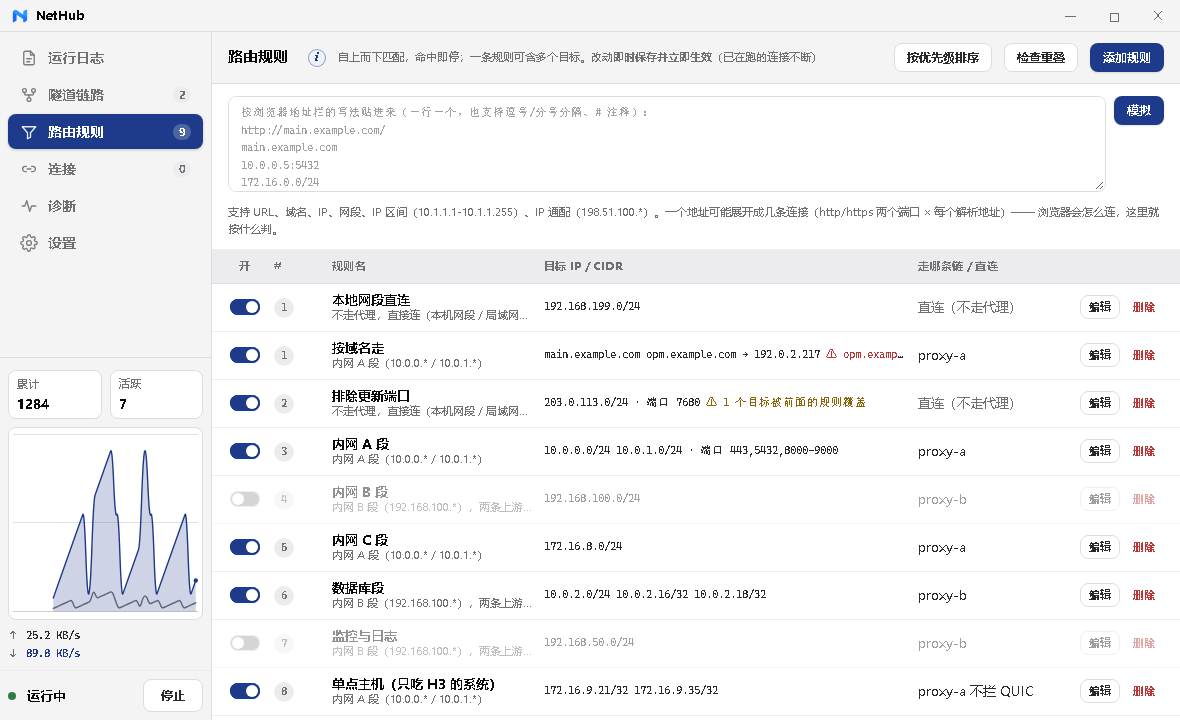
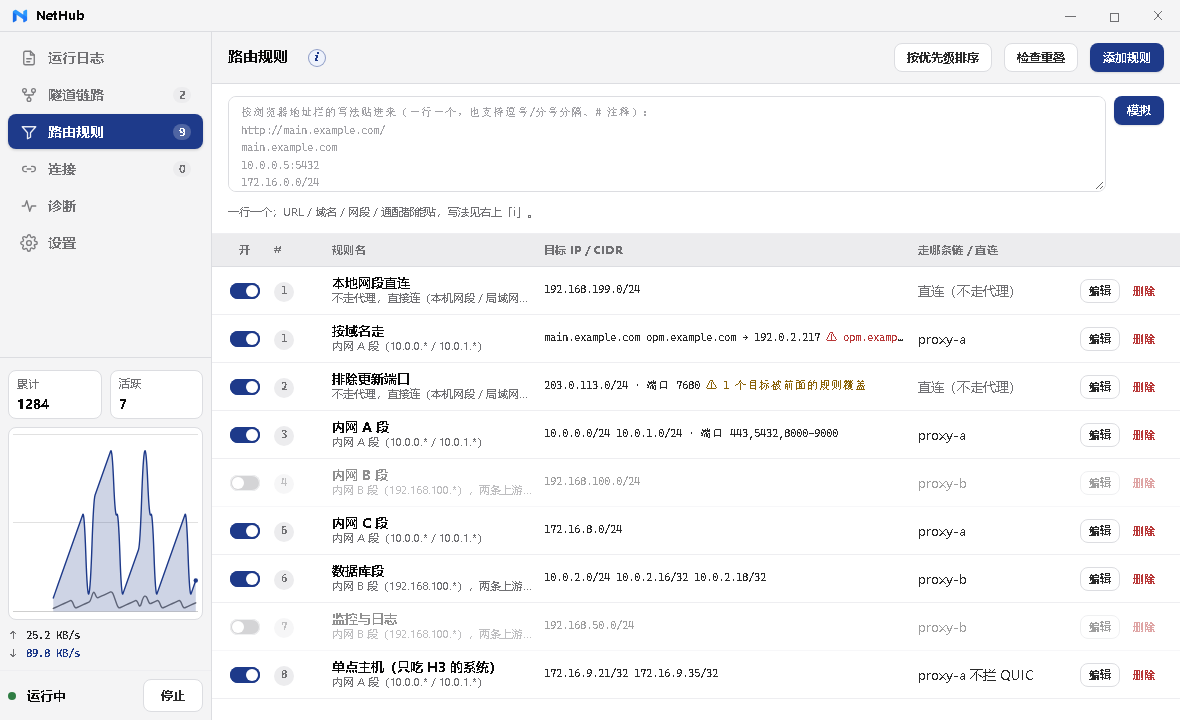
界面文案：删掉与「i」重复的小字，HELP 内容减半
用户要求：清理没用的小字（运行日志横幅、路由规则横幅，以及其它"有 i 又额外写小字"
的地方），并精简 i 里的内容。

删掉的页面小字（信息都在对应 HELP 里，没有丢）：
- 路由规则横幅「自上而下匹配，命中即停；改动即时生效…」→ 进 HELP.rule 第 1 段
- 规则页模拟器「支持 URL、域名、IP 网段…」→ 收成一行「写法见右上 i」
- 连接「当前连接」卡「同目标合并成一行（×N）」、统计卡「累计（本程序启动以来）」
- 诊断「接管状态」卡「内核面 / 域名面…每 5 秒更新」
- 白名单卡「漏了这步…」+ 卡底「两个文件都在程序目录里…见右上 i」
- 共存检测卡「看内网数据会走哪…」+ 修复框里那句「i 里有原因」
- UDP 卡「本版本不转发 UDP…」+ 输出框里三段"结论怎么读"
- 拨号卡「一条上游不响应时…」、headless 卡「把引擎装成 Windows 服务…」+「以 LocalSystem 跑…i 里有细节」
- 日志横幅：改成「同时写入 nethub.log（normal）」—— 只留"写哪儿 + 当前是哪一档"，
  "怎么改/为什么分两档"留在设置页那张卡里

help 内容：10 条共 6500+ 字 → 3350 字（conn 10→7 段、stats 12→7、runtime 13→6、
rule 15→8…），删的是实现细节（合并键、句柄 filter=false、log.db-wal 路径、
"实测环境 Clash Verge v2.5.2"、config.yaml 具体键名）与重复段落；判据保留。

DESIGN.md 补「解释只在 i 里说一次」：页面上只留读数 / 操作 / 当前状态一句话，
判据是"这句删掉用户会不会做错事"。

门禁：help keys=10 paras=56 overlong=0 wired=10/10；loghint 仍含 nethub.log。

diff --git a/frontend/app.js b/frontend/app.js
@@ -2779,158 +2779,124 @@ function updateVerboseToggle(level) {
     : '打开详细日志（verbose）：每条连接为什么这么走、DNS、实际走了哪个上游';
 }
 
-// 日志页那句小字要说清“文件里记的是哪一档”：
-// 用户把屏幕档拨到 normal 后，日志页看不到 route.match 是正常的 —— 不说清楚会以为功能坏了。
+// 日志横幅上只留一句"写哪儿 + 文件里是哪一档"（档位不同步是排障时最常见的困惑）。
+// 怎么改、为什么不影响界面，都在设置页「文件与日志」那张卡里 —— 不在每一页上重说一遍。
 function refreshLogFileHint(s) {
   const el = document.getElementById('logFileHint');
   if (!el) return;
   const eff = s.logLevelFileSet ? (s.logLevelFile || '') : (s.logLevel || 'normal');
-  el.textContent = '同时写到程序目录的 nethub.log（文件档 ' + (eff || 'normal') +
-                   (s.logLevelFileSet ? '' : '，跟随界面') + '；在设置 › 文件与日志 里改）';
+  el.textContent = '同时写入 nethub.log（' + (eff || 'normal') + '）';
 }
 
 // 长说明统一放这里；界面上的小字只留一句概括 + 一个“i”按钮。
+// 写法：一条一个主题、能拿来做判断的留下，实现细节（内部字段名、注册表路径、
+// 具体日志文件位置、当初实测的版本号）一律不写 —— 那些在代码与文档里，
+// 界面上的 i 是用来回答“这一页该怎么看、出问题怎么办”的。
 const HELP = {
   conn: {
     title: '连接列表：口径与操作',
     paras: [
-      '一行 = 一条连接（按本地端口建条目）。同一目标、同一进程、同一链的并行连接会合并成一行并标 ×N —— 浏览器对同一 origin 允许 6 条并发，逐条铺开反而看不出“这是一次页面加载”。合并键：目标 + 动作 + 链 + 进程 + PID。',
-      '点整行展开：列出这一组里每一条连接的本地端口、开始时间、时长、收发字节、包数、状态与命中的规则；错误全文也在这里。',
-      '累计：本进程启动以来接管的连接数（只统计走隧道的，直连与阻断不计）。',
-      '活跃：当前进行中的连接数（含直连与阻断的行，与本列表保持一致）。',
-      '各链累计：每条链接管了多少条（不含直连与阻断）。',
-      '速率：这一行每秒传多少（出+入合计，引擎每秒采样一次；悬停看分方向）。累计字节说的是“一共传了多少”，速率说的是“此刻还在不在传” —— 业务卡住时看的就是它：累计正常、速率为“—”。已结束的连接不显示速率。',
-      '直连的目标需要先打开「直连流量统计」才会出现在这里：默认直连网段不进内核过滤器，一个包都看不到。',
-      '本程序自己的探针连接（链路自检、与其它代理共存检测）不列入：它们是仪器，不是应用流量。',
-      '列表最多显示 5 条，更多的在表内上下滚动；表头固定，滚的时候列名不飘走。',
-      '已结束的连接保留 15 秒。',
+      '一行 = 一条连接。同一目标、同一进程、同一链的并行连接合并成一行并标 ×N（浏览器对同一 origin 就会开 6 条）—— 合成一行才看得出“这是一次页面加载”。',
+      '点整行展开：这一组里每条的本地端口、时长、收发字节、状态与命中的规则；错误全文也在这里。',
+      '累计 = 本程序启动以来接管的连接数（只算走隧道的）。活跃 = 现在还在连的（含直连与阻断）。各链累计 = 每条链接管了多少条。',
+      '速率 = 这一行每秒传多少（出+入）。累计说“一共传了多少”，速率说“此刻还在不在传” —— 业务卡住时看它：累计正常、速率是“—”。已结束的连接不显示速率，保留 15 秒。',
+      '直连的行要先在下面打开「直连流量统计」才看得到：默认直连的包不进内核过滤器，一个都数不到。',
+      '本程序自己的探针（自检、共存检测）不列入 —— 它们是仪器，不是应用流量。',
+      '最多显示 5 条，更多的在表内滚动；表头固定。',
     ],
   },
   stats: {
     title: '「统计」这一块的口径与边界（在「连接」页里）',
     paras: [
-      '这一块回答「这段时间谁在占通道」；上面那张连接列表回答「现在有哪些连接」。两者不重复：列表实时、已结束的一会儿就消失；这一块累计、可清零。',
-      '口径只有一个：累计（本程序启动以来），与「链」页的累计、「连接」页上方的累计、顶栏流量图是同一个起点 —— 引擎「停止/启动」不会把它清零（否则同一件事会有两个数，反而说不清）。要重新起算就点「清零」。',
-      '「时长」是这组数字覆盖了多久（与「自 … 起」同一个起点；点「清零」后会重新算），不是程序/引擎跑了多久 —— 那在「诊断」页。',
-      '连接数 = 已经收尾的 + 还开着的（行内「12·2」= 共 12 条，其中 2 条还在跑）；「活跃」与失败是同一口径，阻断的算失败 —— 应用那边确实没连上。',
-      '流量 = 这条连接实际过的字节（走隧道的分上下行；直连里环回目标也分上下行，其它目标只有出方向）。',
-      '当前速率只看还开着的连接（已结束的自然没有速率）；平均速率 = （发送 + 接收）/ 这一行活跃的时长。',
-      '不算我们自己的探针（自检 / 共存检测那几条）：它们是仪器，不是业务流量 —— 与「连接」页同一个口径。',
-      '直连要看得到，得先在「连接」页打开「也统计直连流量的字节数」：关着时直连的包不进内核过滤器（零开销），根本无从统计。',
-      '目标能认出域名就并到域名那一行（同一个域名用域名 / 假 IP / 真实 IP 连都算一行）；认不出来的按 IP 单列。',
-      '只留最近活跃的 512 个应用 / 目标（超出会挤掉最久没活动的，挤了几个会写在上面）；表里只列前 20 行，点「复制」拿到的是整张表。',
-      '不落盘：程序退出就没了。长期的账看日志里每 5 分钟一行的流量概览。',
-      '点列头可以按这一列换序；默认按流量大的在前。',
+      '这一块答“这段时间谁在占通道”；上面的列表答“现在有哪些连接”。列表实时、结束就消失；这里累计、可清零。',
+      '口径只有一个：累计（本程序启动以来），与连接页上方、链条页的累计、侧栏流量图同一个起点；引擎停止/启动不清零（否则同一件事两个数）。要重新起算点「清零」。',
+      '「时长」是这组数字覆盖了多久，不是程序跑了多久（那个在诊断页）。',
+      '连接数 = 已收尾 + 还在跑（「12·2」= 共 12 条，其中 2 条在跑）。失败里含阻断 —— 应用那边确实没连上。',
+      '流量 = 实际过的字节（走隧道的分上下行；直连只有环回目标分上下行）。当前速率只看还开着的；平均速率 = 收发总量 ÷ 该行活跃时长。',
+      '域名认得出就并到域名那一行（用域名、假 IP、真 IP 连都算一行）；只留最近活跃的 512 个应用/目标，表里只列前 20 行，「复制」拿到的是整张表。',
+      '不落盘：程序退出就没了；长期的账看日志里每 5 分钟一行的流量概览。点列头换序，默认按流量倒序。',
     ],
   },
   runtime: {
-    title: '接管状态：各项指标的含义与判定口径',
+    title: '接管状态：各指标含义与「需要注意」的判定',
     paras: [
-      '三个分面 —— 内核面：内核拦截是否生效（数据包能否到达本程序）；域名面：域名通配与 DNS 接管（名字表 / 假 IP 池）；连接面：连接与进程名解析。',
-      '过滤器句柄 · main = 主过滤器（按规则的网段与端口拦截）；dyn = 通配域名的动态过滤器（只装当前观测到的 IP）；dns = DNS 接管的注入句柄（filter=false，仅用于下发假 IP 应答）；socket = SOCKET 层（事件驱动获取进程名）；reflect = REFLECT 层（列出本机其它 WinDivert 使用者）。',
-      '规则与区间 —— N 条规则编译为 M 个地址区间，区间是内核过滤器的匹配粒度；同网段的多条规则会被合并，因此区间数通常少于规则数。括号内为过滤器原文长度。',
-      'WinDivert 占用 —— 检测到本机还有哪些进程在使用 WinDivert。除本进程之外还有其它进程时，数据包可能被对方优先处理，这是“改写未达中转”的常见原因。',
-      '名字表 —— 已观测到的 域名→IP 映射条数。过期 = TTL 已到但尚未刷新；失败 = 解析失败（该域名不会被通配规则匹配）。最近观测 = 最后一次学到新映射距今的时间。',
-      '通配与接管 —— 是否存在通配域名规则；DNS 接管是否开启。接管开启时，命中通配规则的名字在 DNS 阶段即被回以假 IP，连接时换回真实 IP，名字在连接前就已确定。',
-      '假 IP 池 —— 已分配 / 总容量。占满之后新域名不再被接管。',
-      '连接数 —— 本进程生命周期内累计接管的连接与当前活跃数。按链分布 = 各链累计接管数（含直连）。',
-      '进程名解析 —— 活动连接中成功解析出进程名的比例。偏低通常表示端口未在系统连接表中，或该进程不可读。',
-      '进程表 —— 进程名解析器的缓存规模（端口条目 / PID 条目）。',
-      '「需要注意」的判定条件 —— 链路不可用；内核过滤器区间为 0；主句柄不可用；其它进程占用 WinDivert；规则目标被前置规则完全覆盖（不会生效）；通配规则下名字表为空或过期过半；假 IP 池将满；进程名解析率偏低。',
-      '启动 90 秒内不报告「链路尚未探测」与「名字表为空」：这两项在启动初期属正常状态。',
-      '展开「内核过滤器原文」可查看内核实际拦截条件（覆盖区间清单与原文），用于确认数据包是否会被送达本程序。',
+      '三个分面：内核面 = 内核拦截是否生效（包能不能到本程序）；域名面 = 通配与 DNS 接管；连接面 = 连接与进程名解析。',
+      '过滤器句柄：main 主过滤器、dyn 通配域名的动态过滤器、dns 下发假 IP 应答、socket 取进程名、reflect 看本机还有谁在用 WinDivert。哪个不是 ok，就说明那一路没起来。',
+      'WinDivert 占用：除本进程外还有别人时，包可能被对方先处理 —— 这是“改写做了、却没到中转”最常见的原因。',
+      '名字表 = 已观测到的 域名→IP。过期 = TTL 到了还没刷新；失败 = 解析不到（该域名不会被通配规则匹配）。假 IP 池占满后，新域名不再接管。',
+      '进程名解析率偏低：通常那个端口不在系统连接表里，或那个进程不可读。',
+      '「需要注意」只在真有问题时出现：链路不可用、过滤器区间为 0、主句柄不可用、别人占着 WinDivert、规则被前面的规则完全覆盖、名字表空或过期过半、假 IP 池将满、解析率偏低。启动 90 秒内不报“链路尚未探测”和“名字表为空”。',
     ],
   },
   dial: {
-    title: '上游拨号：各字段含义',
+    title: '上游拨号：四个字段',
     paras: [
-      '单次超时：单条上游的握手上限。实测现网握手 0.1～0.8 秒，5 秒余量充足；调小可更快切换，但可能误判慢链路。',
-      '总预算：一次连接在所有上游上的总耗时上限，超过即判定失败。',
-      '竞速起跑：第一条上游超过该时间仍未连上，则并发尝试其它上游并取先到者；0 表示关闭竞速。',
-      '实测某条链 CONNECT 需 620ms、另一条仅 75ms，竞速可将业务拉到快链路；过小会让每条连接都多拨一次，故默认为 300ms。',
-      '预热会话：每条上游预建若干“已完成握手、只差 CONNECT”的会话，业务到达时无需等待握手；0 表示关闭。',
-      '单位：前两项为秒，第三项为毫秒，最后一项为条数。保存后即时生效。',
+      '单次超时：一条上游的握手上限。现网握手 0.1~0.8 秒，5 秒余量充足；调小切得快，但可能误判慢链路。',
+      '总预算：一次连接在所有上游上的总耗时上限，超了就判失败。',
+      '竞速起跑：第一条超过这个时间还没连上，就并发试其它上游、取先到的。0 表示关闭。',
+      '预热会话：每条上游预建若干“握手已完成、只差 CONNECT”的会话，业务来了不用等握手。0 表示关闭。',
+      '前两项按秒、第三项按毫秒、最后一项是条数；保存后即时生效。',
     ],
   },
   udp: {
-    title: 'UDP 中继：为何未实现与同行现状',
+    title: 'UDP 中继：为什么不做、探测能证明什么',
     paras: [
-      '结论：两端同时受限 —— 上游不转发，本地也只能拦下。',
-      '上游侧：实测 4 条上游的 SOCKS5 UDP ASSOCIATE 均返回成功（reply_code=0，并返回绑定端口，说明已建立 UDP socket），但发送实际数据包后 4/4 收不到回包。',
-      '其中一条返回的绑定地址是上游自己内网里的地址（172.17.0.2），客户端无法路由：属结构性不可达。',
-      '本地侧：仅拦截 TCP。本该走链的目标上的 UDP 443（QUIC）会被拦下并记录一行 quic.block，促使应用回落 TCP；单条规则可勾选「不拦 QUIC」放行。',
-      '同行现状：Proxifier 基于 Windows 官方网络框架（WFP），其 UDP 同样只有忽略（放行）与丢弃两种模式，不转发。',
-      '纯 UDP 业务无法代理。如需支持，须改用 TUN 类全局接管，或上游具备可承载 UDP 的封装（如 MASQUE）——两者均与本项目“按目标分流、不修改系统设置”的设计冲突。',
-      '本页探测的用途：保留判据 —— 上游具备中继能力（✓ 可用）后再评估。',
-      '注意：拦下不等于应用立即回落。ICMP 端口不可达实测无法送达应用，回落时机由客户端决定；可保证的只有拦下本身。',
+      '结论：两端都不通 —— 上游不转发，本地也只能拦下。',
+      '上游：几条链的 UDP ASSOCIATE 都返回成功（给了绑定端口，说明 socket 建起来了），但真发数据一个回包都没有；其中一条给的还是它自己内网的地址，结构性不可达。',
+      '本地：只拦 TCP。本该走链的 UDP 443（QUIC）被拦下并记一行 quic.block，促使应用回落 TCP；单条规则可以勾「不拦 QUIC」放行。注意拦下不等于立刻回落，回落时机由客户端决定。',
+      '同行也一样：Proxifier 走 WFP，UDP 只有“放行”和“丢弃”两种，都不转发。',
+      '真要支持得靠 TUN 全局接管，或上游能承载 UDP（如 MASQUE）—— 两者都跟“按目标分流、不动系统设置”冲突。这页探测只用来留个判据：上游哪天真能中继，再谈要不要做。',
     ],
   },
   service: {
     title: '服务模式（headless）',
     paras: [
-      '安装 ≠ 启用：安装只是把它装好备着（开机也不会自己跑）。',
-      '要真用它，拨开「开机自启用服务形态」开关 —— 那一刻起服务就接管引擎（界面退出），以后每次开机都自动跑，无人登录也跑。',
-      '只想用一次、不想随开机：直接点「启动」（交棒给服务版）；点「停止」再点顶栏「接管引擎」就还回来。',
-      '服务以 LocalSystem 运行、没有界面与托盘；配置与日志与界面版共用同一份文件。',
-      '开机自启二选一：计划任务（登录后静默启动，带托盘图标）或本服务（无人登录也能跑）。拨开本开关时，界面版那条计划任务会被自动关掉 —— 两个都开着会在开机时抢引擎。',
+      '安装 ≠ 启用：安装只是装好备着，开机也不会自己跑。',
+      '要真用它，拨开「开机自启用服务形态」—— 那一刻起服务接管引擎（界面退出），之后每次开机自动跑，无人登录也跑。只想用一次就点「启动」；点「停止」再点「接管」就还回来。',
+      '服务以 LocalSystem 跑、没有界面与托盘；配置与日志与界面版共用同一份文件。',
+      '开机自启二选一：计划任务（登录后静默起、有托盘）或本服务（无人登录也跑）。拨开本开关时会自动关掉计划任务 —— 两个都开着会在开机时抢引擎。',
     ],
   },
   whitelist: {
-    title: '白名单：为何信任区不够、为何需重启安全软件',
+    title: '白名单：为什么只加信任区不够、为什么要重启安全软件',
     paras: [
-      '主程序需加入信任区（避免被误判为木马）；驱动需加入「例外驱动」。两者是不同的功能，需分别放行。',
-      '火绒 6.0 起新增「漏洞驱动拦截」（BYOVD 防护），其例外表独立，不受信任区影响。WinDivert 在该名单内，因此会被拦截。',
-      '拦截发生在内核加载驱动阶段（火绒日志中发起方为 System），因此把 nethub.exe 加入白名单无效，需放行 .sys 文件本身。',
-      '被拦时报错误码 1450「系统资源不足」：该码易被误判为内存或权限问题，实际不是。',
-      '火绒日志位于 C:\\ProgramData\\Huorong\\Sysdiag\\log.db-wal，搜索 WinDivert64 可见 modblock 与 BYOVD_network_redirect。',
-      '例外表在安全软件启动时读入内存，添加后需重启该软件。验证：管理员命令行执行 sc start WinDivert，再重启一次系统复测。',
+      '主程序进「信任区」，驱动进「例外驱动」—— 是两个地方，要分别放行。',
+      '火绒 6.0 起有「漏洞驱动拦截」（防 BYOVD），它的例外表独立、不受信任区影响，而 WinDivert 就在它的名单里。',
+      '拦截发生在内核加载驱动那一刻（火绒日志里的发起方是 System），所以只把 nethub.exe 加白没用，得放行 .sys 文件本身。',
+      '被拦时报 1450「系统资源不足」—— 那不是内存问题，基本只有杀软这一种原因。',
+      '例外表在安全软件启动时读进内存，加完要重启它。验证：管理员命令行执行 sc start WinDivert，再重启机器复测。',
     ],
   },
   clash: {
-    title: '与其它代理共存：判定依据与修复方式',
+    title: '与其它代理共存：什么模式能共存、怎么修',
     paras: [
-      '前提：仅当对方运行在系统代理模式时可共存 —— 应用把域名交给代理端口，两边按 IP 段各自分流。',
-      'PAC 模式无法共存：PAC 由应用自行决定直连或代理，内网请求也会交给代理，无法收回。',
-      'TUN 模式无法共存：TUN 接管全机流量与 DNS（Clash 配置中的 dns-hijack: any:53、auto-route: true），此时 NetHub 的透明接管失效，两者只能二选一。',
-      '判定依据为 Windows 的「系统代理设置」（注册表中的代理服务器与绕过列表），适用于任何写入系统代理的工具，不限于 Clash。',
-      '实测环境：Clash Verge v2.5.2。',
-      '本机未启用系统代理时，本页直接判定为正常。',
-      '修复方式：把内网网段与域名填入该工具的「绕过地址」，避免其接管内网请求。',
-      '填入后可用同处的「当前绕过」核对是否已写入。',
-      '不修复也可使用；若该工具同时接管 DNS 解析，可能无法获得真实 IP。',
-      '不自动填入的原因：该配置由对方维护，每次应用系统代理都会重写；实测写入后 5 秒内即被覆盖。',
+      '只有对方跑在「系统代理模式」才能共存：应用把域名交给它，两边按 IP 段各自分流。',
+      'PAC 模式不行（由应用自己决定直连还是代理，内网请求也会被交出去）；TUN 模式不行（接管全机流量与 DNS，只能二选一）。',
+      '判定依据是 Windows 的「系统代理设置」（代理服务器 + 绕过列表），对所有写系统代理的工具都适用。本机没开系统代理就直接判正常。',
+      '修法：把内网网段与域名填进那个工具的「绕过地址」，填完用同处的「当前绕过」核对。不修也能用，但如果它同时接管 DNS，可能拿不到真实 IP。',
+      '不自动填：那份配置归对方维护，每次应用系统代理都会被重写。',
     ],
   },
   rule: {
-    title: '规则写法：IP / 域名 / 通配的匹配方式',
+    title: '规则写法：顺序、IP/域名/通配',
     paras: [
-      'IP / CIDR：按数据包内的地址直接匹配，不依赖解析。',
-      'IP 通配（198.51.100.*）：写法等价于整段（/24），便于沿用 Proxifier 中已有的规则。',
-      'IP 区间（198.51.100.1-198.51.100.255）：等价于把这段地址挨个写上——保存时会展开成网段，' +
-        '两边对齐的部分会并成一条（10.1.1.0-10.1.1.255 = 10.1.1.0/24）；横线两边带空格也能认。',
-      '域名（main.example.com）：启动时以及每 5 分钟解析一次，以解析结果匹配；连接时把域名交给上游解析（内网域名通常只有客户网内的 DNS 能解析）。',
-      '解析不到的域名规则不拦截任何流量（不退化为全拦）；日志与规则页都会标出。',
-      '通配域名（*.example.com）：不包含 example.com 本身，包含任意层级（a.b.example.com 亦匹配），不区分大小写。',
-      '通配域名无法提前解析，只能通过只读嗅探 DNS 应答获得 名字→IP 映射（不修改任何数据包）。',
-      'DNS 接管（默认开启）是更稳定的路径：命中通配规则的名字在 DNS 阶段被回以假 IP，连接时换回真实 IP，不依赖嗅探。',
-      '规则页的「已覆盖 N 个 IP」来自观测结果；「接管中（还没学到 IP）」表示规则已生效，但真实 IP 尚未被记录（首次连接后即有）。',
-      '接管关闭时，「还没学到任何 IP」表示确实不拦截任何流量。',
-      '观测不到的情形：应用使用加密 DNS（DoH/DoT）或自带解析器 —— 依赖嗅探的通配规则不生效（接管开启时仍然生效）。',
-      '同一 IP 被多个域名共用时，命中任一被覆盖的名字即算匹配。',
-      '如需更稳定：为关键内网域名同时写一条具体域名规则，不依赖观测。',
-      'TCP 7680（Windows 更新传递优化）为内置直连，无需在规则中配置。',
-      '关闭该内置行为：在 config.yaml 的 tuning 下加 builtin_direct_disabled: true。',
+      '顺序：自上而下匹配，命中即停；改动即时保存并立即生效（已在跑的连接不断）。一条规则可以含多个目标。',
+      'IP / 网段：按包里的地址直接匹配，不依赖解析。',
+      'IP 通配（198.51.100.*）等价于整段 /24；IP 区间（…1-…255）保存时会展开成网段、能并的就并（横线两边带空格也认）。',
+      '域名：启动时与每 5 分钟解析一次，按解析结果匹配；连接时把域名交给上游解析（内网域名通常只有客户网内的 DNS 能解）。解析不到的域名规则不拦任何流量，日志与规则页都会标出来。',
+      '通配（*.example.com）：不含 example.com 本身、含任意层级、不区分大小写。它没法提前解析，只能靠只读嗅探 DNS 应答拿 名字→IP（不改任何包）。',
+      'DNS 接管（默认开）更稳：命中通配的名字在 DNS 阶段就回假 IP，连接时换回真实 IP，不依赖嗅探。规则页的「已覆盖 N 个 IP」来自观测；「接管中（还没学到 IP）」= 规则已生效、真实 IP 还没被记录（首次连接后就有）。',
+      '嗅探不到的情形：应用用加密 DNS（DoH/DoT）或自带解析器 —— 那时只有接管开着才生效。要稳就给关键域名再写一条具体域名规则。',
+      'TCP 7680（Windows 更新传递优化）内置直连，不用配。',
     ],
   },
   hosts: {
-    title: '系统 hosts 接管：写入范围与恢复机制',
+    title: '系统 hosts 接管：写入范围与恢复',
     paras: [
-      '只写入标记块内的行；标记块之外的内容（Docker、微信等写入的记录）不做任何改动。',
-      '首次写入前备份原文件为 hosts.nethub.bak，仅备份一次，不覆盖最初的版本。',
-      '标记块外若已存在同名记录，会被挪入标记块：Windows 只取第一条匹配，否则写入不生效。',
-      '写入后刷新一次 DNS 缓存，否则系统可能继续使用缓存中的解析结果。',
-      '该文件也会被其它程序修改（杀软、微信、Clash、VPN）；被修改后每 60 秒自检并恢复，日志中会说明。',
-      '日志中出现「hosts 被其他程序改动了…已自动恢复」属于正常自愈行为，不是错误。',
+      '只写标记块里的行，块外（Docker、微信等写的）一律不动；首次写入前备份成 hosts.nethub.bak，只备一次。',
+      '块外已有同名记录会被挪进块里 —— Windows 只取第一条匹配，不挪就不生效。写完会刷一次 DNS 缓存。',
+      '这个文件别的程序也在改（杀软、微信、Clash、VPN）；被改后每 60 秒自检恢复，日志里会说。',
+      '日志里「hosts 被其他程序改动了…已自动恢复」是正常自愈，不是错误。',
     ],
   },
 };

diff --git a/frontend/index.html b/frontend/index.html
@@ -103,7 +103,7 @@
   <section class="page page-flat is-active" id="page-log">
     <header class="page-head">
       <h1>运行日志</h1>
-      <span class="hint" id="logFileHint">同时写到程序目录的 nethub.log</span>
+      <span class="hint" id="logFileHint">同时写入 nethub.log</span>
       <div class="spacer"></div>
       <div class="seg" id="segLogLevel" title="日志档位：normal 只记连接与错误 · verbose 加每条连接的判定、DNS、走了哪个上游 · debug 加引擎内部状态。档位会记住，重启不变">
         <span class="seg-thumb"></span>
@@ -140,8 +140,7 @@
   <section class="page page-flat" id="page-rule">
     <header class="page-head">
       <h1>路由规则</h1>
-      <button class="info-btn" id="btnHelpRule" title="域名与通配域名的匹配规则">i</button>
-      <span class="hint">自上而下匹配，命中即停；一条规则可含多个目标。改动<b>即时保存并立即生效</b>（已在跑的连接不断）</span>
+      <button class="info-btn" id="btnHelpRule" title="匹配顺序、域名与通配的写法">i</button>
       <div class="spacer"></div>
       <button class="btn btn-sm" id="btnRuleSort" title="前缀长的（/32 比 /24 具体）排前面，带端口条件的更靠前；本机自身 / 环回（127.0.0.0/8）类规则放最后——它是兜底，不跟内网网段争位置；停用的规则原地不动">按优先级排序</button>
       <button class="btn btn-sm" id="btnRuleOverlap">检查重叠</button>
@@ -156,7 +155,7 @@
             placeholder="按浏览器地址栏的写法贴进来（一行一个，也支持逗号/分号分隔、# 注释）：&#10;http://main.example.com/&#10;main.example.com&#10;10.0.0.5:5432&#10;172.16.0.0/24"></textarea>
           <button class="btn btn-sm btn-primary" id="btnExplain">模拟</button>
         </div>
-        <div class="hint">支持 URL、域名、IP、网段、IP 区间（10.1.1.1-10.1.1.255）、IP 通配（198.51.100.*）。一个地址可能展开成几条连接（http/https 两个端口 × 每个解析地址）—— 浏览器会怎么连，这里就按什么判。</div>
+        <div class="hint">一行一个；URL / 域名 / 网段 / 通配都能贴，写法见右上「i」。</div>
         <div class="sim-result" id="simResult" hidden></div>
       </div>
       <div class="table" id="ruleTable"></div>
@@ -170,12 +169,11 @@
       <div class="card">
         <div class="card-head">
           <h2>当前连接</h2>
-          <span class="hint">同目标合并成一行（×N），点开看每条</span>
           <div class="spacer"></div>
           <span class="hint" id="connSummary">—</span>
           <button class="btn btn-sm" id="btnConnVerbose" title="打开详细日志（verbose）：每条连接为什么这么走、DNS、实际走了哪个上游">详细日志</button>
           <button class="btn btn-sm" id="btnConnRefresh">刷新</button>
-          <button class="info-btn" id="btnHelpConn" title="列表口径与操作">i</button>
+          <button class="info-btn" id="btnHelpConn" title="列表口径、合并规则与速率">i</button>
         </div>
         <div class="table" id="connTable"></div>
 
@@ -200,11 +198,10 @@
         <div class="card-head">
           <h2>统计</h2>
           <div class="spacer"></div>
-          <span class="hint">累计（本程序启动以来）</span>
           <span class="hint" id="statSince">—</span>
           <button class="btn btn-sm" id="btnStatCopy">复制</button>
           <button class="btn btn-sm" id="btnStatReset">清零</button>
-          <button class="info-btn" id="btnHelpStats" title="这一块的口径与边界">i</button>
+          <button class="info-btn" id="btnHelpStats" title="口径、边界与不落盘">i</button>
         </div>
         <div class="stat-figs">
           <div class="stat-fig">
@@ -278,11 +275,10 @@
       <div class="card" id="cardRuntime">
         <div class="card-head">
           <h2>接管状态</h2>
-          <span class="hint">内核面 / 域名面 / 连接面 的当前状态（进页刷新；可见时每 5 秒更新）</span>
           <div class="spacer"></div>
           <span class="hint mono" id="rtUptime">—</span>
           <button class="btn btn-sm" id="btnRtRefresh">刷新</button>
-          <button class="info-btn" id="btnHelpRuntime" title="各项指标的含义与判定口径">i</button>
+          <button class="info-btn" id="btnHelpRuntime" title="各指标含义与「需要注意」的判定">i</button>
         </div>
         <!-- 内容一律放进 card-body：卡片自己不设内边距（padding 在 .card-body 上），
              直接当子元素会被 overflow:hidden 贴着边切掉（展开按钮就被切过）。 -->
@@ -302,11 +298,10 @@
       <div class="card" id="cardWhitelist">
         <div class="card-head">
           <h2>安全软件白名单</h2>
-          <span class="hint">漏了这步，驱动可能在开机时被杀软拦掉</span>
           <div class="spacer"></div>
           <button class="btn btn-sm" id="btnCopySysPath">复制驱动路径</button>
           <button class="btn btn-sm" id="btnOpenProgDir">打开程序目录</button>
-          <button class="info-btn" id="btnHelpWhitelist" title="信任区与「例外驱动」的区别、需重启的原因">i</button>
+          <button class="info-btn" id="btnHelpWhitelist" title="为何只加信任区不够、为何要重启安全软件">i</button>
         </div>
         <div class="card-body form">
           <div class="wl-table">
@@ -316,7 +311,6 @@
             <div class="mono">WinDivert64.sys</div>
             <div>火绒 6.0：<b>系统防护 → 漏洞驱动拦截 → 例外驱动</b>；360 / 腾讯管家：驱动（内核）防护白名单</div>
           </div>
-          <div class="hint">两个文件都在程序目录里。火绒只加信任区往往不够 —— 驱动要进「例外驱动」，原因见右上「i」。</div>
         </div>
       </div>
 
@@ -344,10 +338,9 @@
       <div class="card">
         <div class="card-head">
           <h2>与其它代理共存 —— 以 Clash 为例</h2>
-          <span class="hint">看内网数据会走哪、走得对不对（只读，不改任何设置）</span>
           <div class="spacer"></div>
           <button class="btn btn-sm" id="btnClashCheck">重新检测</button>
-          <button class="info-btn" id="btnHelpClash" title="判定依据与修复方式">i</button>
+          <button class="info-btn" id="btnHelpClash" title="什么模式下能共存、怎么修">i</button>
         </div>
         <div class="card-body form">
           <div class="clash-state" id="clashState">尚未检测。点右上角「重新检测」。</div>
@@ -355,7 +348,7 @@
           <div class="hint" id="loopInfo">环路检测：—</div>
           <div class="field" id="clashFixWrap" hidden>
             <label>把下面这段填进 Clash Verge 的「绕过地址」
-              <em>入口：设置 → 系统代理 那一行【左侧的小齿轮】→「代理绕过设置」。<b>「i」</b>里有原因。</em>
+              <em>入口：设置 → 系统代理 → 该行左侧小齿轮 →「代理绕过设置」</em>
             </label>
             <div class="input-row">
               <input type="text" id="clashBypass" class="input mono" readonly>
@@ -401,18 +394,13 @@
       <div class="card">
         <div class="card-head">
           <h2>UDP（QUIC）能力探测</h2>
-          <span class="hint">本版本不转发 UDP —— QUIC 只拦不转；这一项只<b>探一探</b>上游有没有这个能力，答“为什么我们没有 UDP”</span>
           <div class="spacer"></div>
           <button class="btn btn-sm" id="btnUdpCopy">复制结果</button>
           <button class="btn btn-sm btn-primary" id="btnUdpProbe">开始探测</button>
-          <button class="info-btn" id="btnHelpUdp" title="为何未实现 UDP 中继、同行现状">i</button>
+          <button class="info-btn" id="btnHelpUdp" title="为何不做 UDP 中继">i</button>
         </div>
         <div class="card-body form">
-          <pre class="explain-out" id="udpProbeOut">点「开始探测」：逐条链问一次上游能不能中继 UDP（只发一次公网 DNS 查询，不碰客户内网）。
-
-结论怎么读：
-  ✓ 可用 = 上游真能中继 UDP（这时才有讨论“要不要上 UDP”的前提）
-  ✗ 往返没回包 = 上游接受了请求但数据面不通（大概率它那边没放行 UDP 端口）</pre>
+          <pre class="explain-out" id="udpProbeOut">点「开始探测」：逐条链问一次上游能不能中继 UDP（只发一次公网 DNS 查询，不碰客户内网）。</pre>
         </div>
       </div>
 
@@ -531,10 +519,9 @@
       <div class="card">
         <div class="card-head">
           <h2>上游拨号</h2>
-          <span class="hint">一条上游不响应时，等多久换下一条</span>
           <div class="spacer"></div>
           <button class="btn btn-sm" id="btnDialReset">重置</button>
-          <button class="info-btn" id="btnHelpDial" title="各字段含义与默认值依据">i</button>
+          <button class="info-btn" id="btnHelpDial" title="四个字段的含义与默认值">i</button>
         </div>
         <div class="card-body form">
           <div class="dial-grid">
@@ -557,13 +544,11 @@
       <div class="card">
         <div class="card-head">
           <h2>headless 模式</h2>
-          <span class="hint">把引擎装成 Windows 服务：<b>无人登录也会跑</b>（对齐 Proxifier 的 Service Mode）</span>
           <div class="spacer"></div>
           <span class="hint" id="svcInfo">—</span>
-          <button class="info-btn" id="btnHelpService" title="服务模式说明">i</button>
+          <button class="info-btn" id="btnHelpService" title="安装 vs 启用、与计划任务二选一">i</button>
         </div>
         <div class="card-body form">
-          <div class="hint">以 LocalSystem 跑、没有界面；配置与日志与界面版共用。<b>「i」</b>里有细节。</div>
           <div class="input-row">
             <button class="btn btn-sm btn-primary" id="btnSvcInstall">安装服务</button>
             <button class="btn btn-sm" id="btnSvcStart">启动</button>
